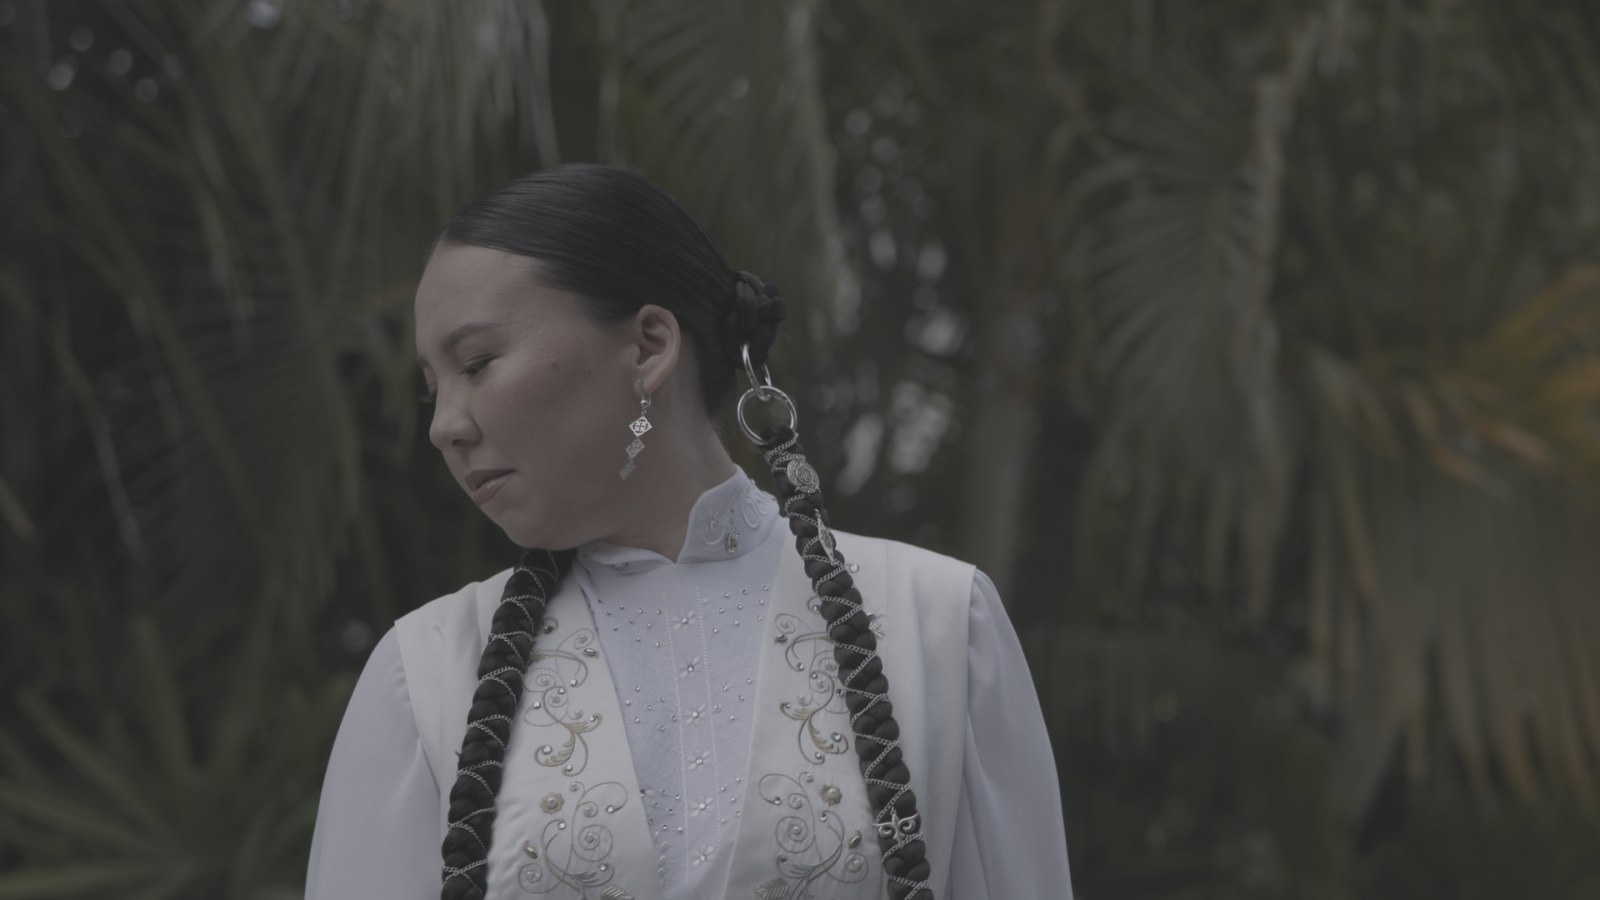
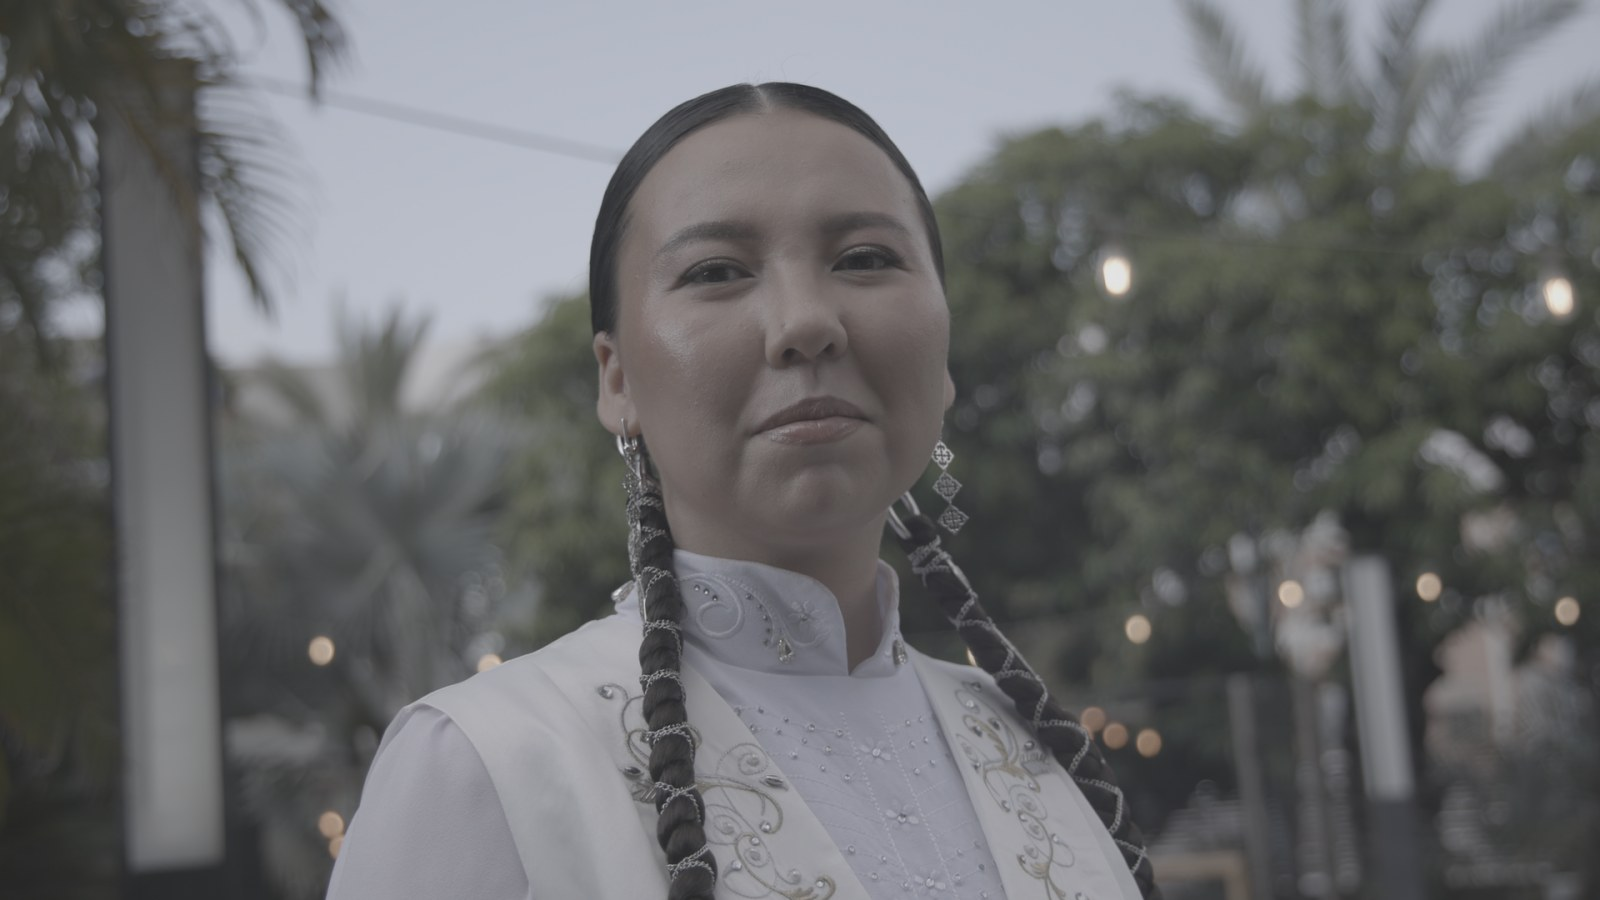
До/после цвета: новый кадр, портрет невесты с огнями на фоне

diff --git a/js/main.js b/js/main.js
@@ -548,8 +548,8 @@
     const after = $("[data-cmp-after]");
     if (!box) return;
     if (!M.grade) { $("#grade").hidden = true; return; }
-    after.src = "assets/poster/grade_cc.jpg";
-    before.src = "assets/poster/grade_raw.jpg";
+    after.src = "assets/poster/grade_cc.jpg?v=2";
+    before.src = "assets/poster/grade_raw.jpg?v=2";
     after.addEventListener("load", () => box.style.setProperty("--car", `${after.naturalWidth} / ${after.naturalHeight}`));
     const set = (k) => {
       k = Math.max(0, Math.min(100, k));

diff --git a/index.html b/index.html
@@ -171,6 +171,6 @@
 <script src="js/data.js?v=3a1cf0fd"></script>
 <script src="js/media.js?v=620289a7"></script>
 <script src="js/brief.js?v=f1ad9ec4"></script>
-<script src="js/main.js?v=7d151f99"></script>
+<script src="js/main.js?v=bcfda761"></script>
 </body>
 </html>
